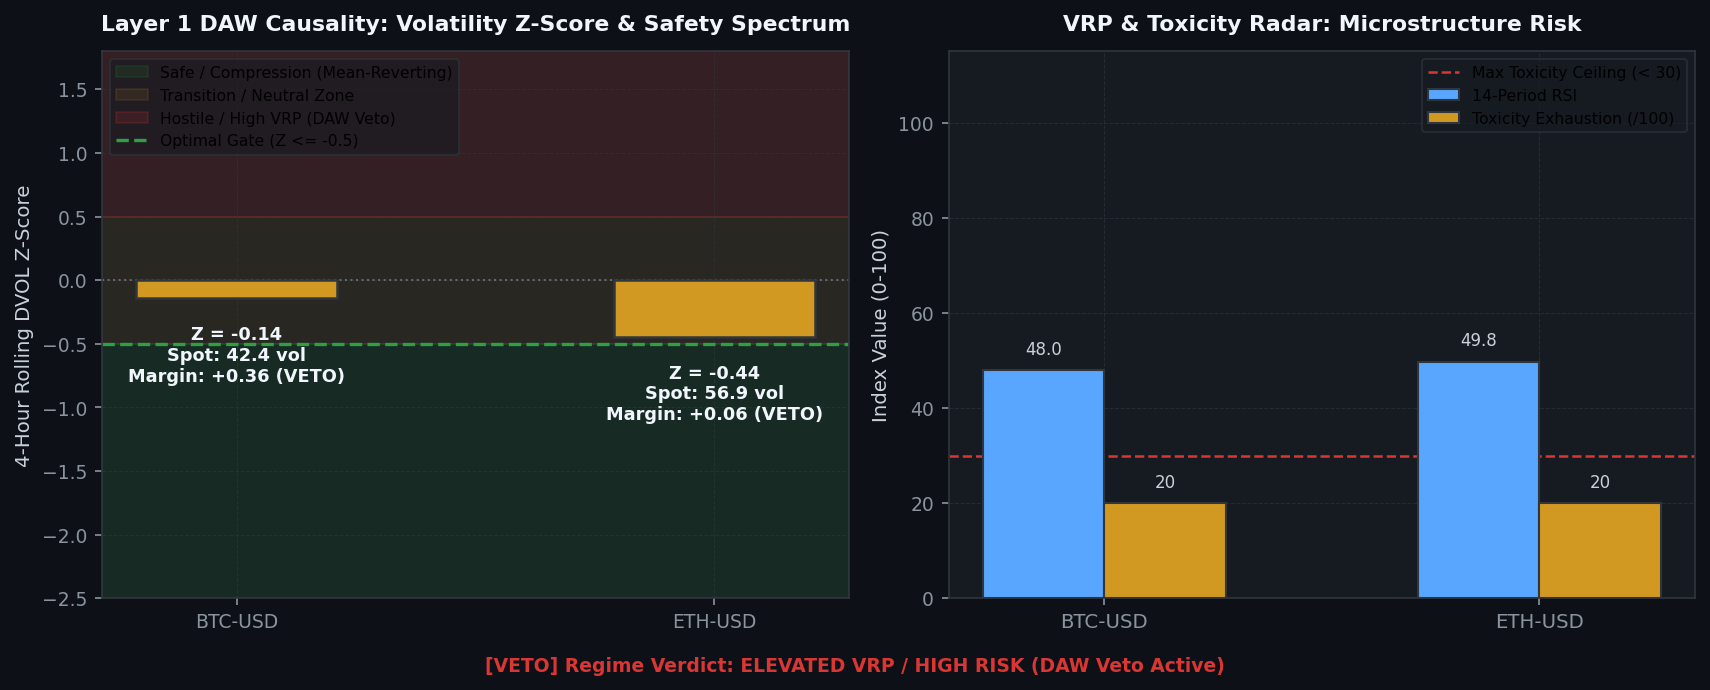
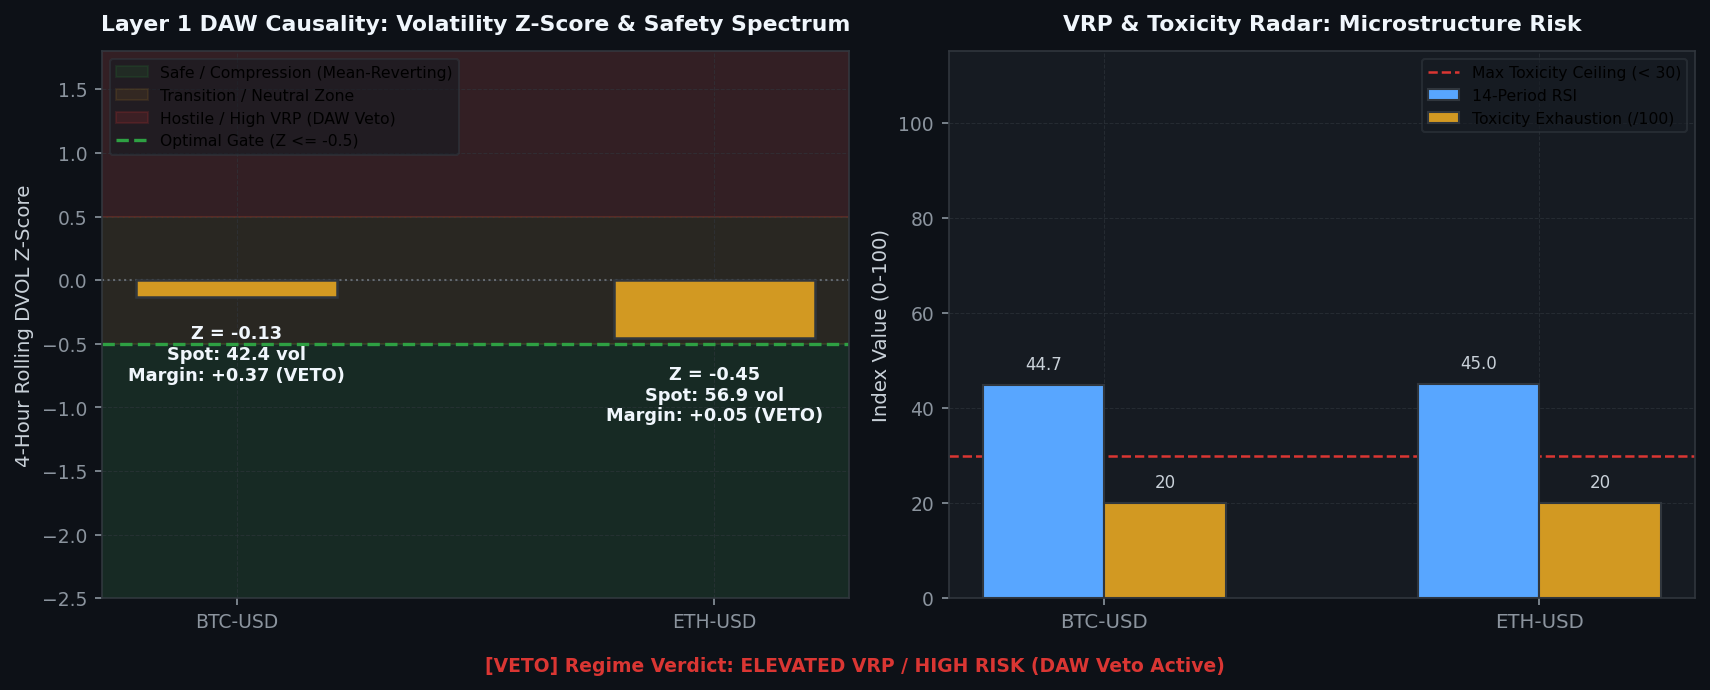
[coinbase] Hourly Status & Visual Intelligence Update: 2026-08-22 12:10:11

diff --git a/coinbase/data/hourly_status_report.md b/coinbase/data/hourly_status_report.md
@@ -3,7 +3,7 @@ layout: default
 ---
 
 # 🛡 Unified Trading System Hourly Status & Visual Intelligence
-> **Report Generated**: `2026-08-22 12:00:10 PM PDT (2026-08-22 19:00:10 UTC)`  
+> **Report Generated**: `2026-08-22 12:09:53 PM PDT (2026-08-22 19:09:53 UTC)`  
 > **System Health**: **🟡 DEGRADED / RESTRICTED** | **Win Rate**: `0.0%` | **Completed Trades**: `0`
 
 
@@ -15,13 +15,13 @@ Real-time Deribit implied volatility (DVOL) proxy tracking against mathematicall
 
 | Symbol | Proxy Oracle | Live Z-Score | Optimal Limit (YSP) | Safety Margin | Live VRP | Optimal VRP (YSP) | DAW Safety Verdict |
 | :--- | :--- | :--- | :--- | :--- | :--- | :--- | :--- |
-| `AVAX-USD` | DVOL_BTC | **-0.14** | **-0.50** | **+0.36** | **-0.36** | 5.0 | 🔴 DAW VETOED |
-| `ETH-USD` | DVOL_ETH | **-0.44** | **-0.50** | **+0.06** | **+14.19** | 5.0 | 🔴 DAW VETOED |
-| `ADA-USD` | DVOL_BTC | **-0.14** | **-0.50** | **+0.36** | **-0.36** | 5.0 | 🔴 DAW VETOED |
-| `DOGE-USD` | DVOL_BTC | **-0.14** | **-0.50** | **+0.36** | **-0.36** | 5.0 | 🔴 DAW VETOED |
-| `BTC-USD` | DVOL_BTC | **-0.14** | **-0.50** | **+0.36** | **-0.36** | 5.0 | 🔴 DAW VETOED |
-| `LINK-USD` | DVOL_BTC | **-0.14** | **-0.50** | **+0.36** | **-0.36** | 5.0 | 🔴 DAW VETOED |
-| `SOL-USD` | DVOL_BTC | **-0.14** | **-0.50** | **+0.36** | **-0.36** | 5.0 | 🔴 DAW VETOED |
+| `AVAX-USD` | DVOL_BTC | **-0.13** | **-0.50** | **+0.37** | **-0.27** | 5.0 | 🔴 DAW VETOED |
+| `ETH-USD` | DVOL_ETH | **-0.45** | **-0.50** | **+0.05** | **+14.27** | 5.0 | 🔴 DAW VETOED |
+| `ADA-USD` | DVOL_BTC | **-0.13** | **-0.50** | **+0.37** | **-0.27** | 5.0 | 🔴 DAW VETOED |
+| `DOGE-USD` | DVOL_BTC | **-0.13** | **-0.50** | **+0.37** | **-0.27** | 5.0 | 🔴 DAW VETOED |
+| `BTC-USD` | DVOL_BTC | **-0.13** | **-0.50** | **+0.37** | **-0.27** | 5.0 | 🔴 DAW VETOED |
+| `LINK-USD` | DVOL_BTC | **-0.13** | **-0.50** | **+0.37** | **-0.27** | 5.0 | 🔴 DAW VETOED |
+| `SOL-USD` | DVOL_BTC | **-0.13** | **-0.50** | **+0.37** | **-0.27** | 5.0 | 🔴 DAW VETOED |
 
 
 
@@ -37,12 +37,12 @@ We hereby certify that the mission-critical algorithmic data assets uploaded by 
 
 | Status | Data Asset | Freshness / State | Details / Timestamp |
 | :---: | :--- | :--- | :--- |
-| ✅ | **Go-List JSON** | Fresh (26.81h old) | 08-21 09:11 |
-| ✅ | **TimesFM Forecasts** | Fresh (3.97h old) | 08-22 08:02 |
-| ✅ | **Holding Times config** | Fresh (26.96h old) | 08-21 09:02 |
-| ✅ | **BTC DVOL Cache** | Fresh (0.01h old) | 08-22 11:59 |
-| ✅ | **ETH DVOL Cache** | Fresh (0.01h old) | 08-22 11:59 |
-| ✅ | **Live Trading Telemetry** | Fresh (0.00h old) | 08-22 12:00 |
+| ✅ | **Go-List JSON** | Fresh (26.98h old) | 08-21 09:11 |
+| ✅ | **TimesFM Forecasts** | Fresh (4.13h old) | 08-22 08:02 |
+| ✅ | **Holding Times config** | Fresh (27.12h old) | 08-21 09:02 |
+| ✅ | **BTC DVOL Cache** | Fresh (0.00h old) | 08-22 12:10 |
+| ✅ | **ETH DVOL Cache** | Fresh (0.01h old) | 08-22 12:09 |
+| ✅ | **Live Trading Telemetry** | Fresh (0.00h old) | 08-22 12:09 |
 
 <br>
 
@@ -55,7 +55,7 @@ Layer-by-layer tick evaluation waterfall and asset-specific performance tracking
 
 | Funnel Filter Layer | Total Rejections | % of Rejections |
 | :--- | :--- | :--- |
-| Tier 1: Macro Volatility Tensor Gate (Omega_macro) | `18,235` | **100.0%** |
+| Tier 1: Macro Volatility Tensor Gate (Omega_macro) | `18,431` | **100.0%** |
 | Tier 2: Unified Transport & Directional Engine | `0` | **0.0%** |
 | Tier 3: Continuous Hawkes-SFGK Pricer (HAS-Pricer) | `0` | **0.0%** |
 | System: Asset Cooldown Active | `0` | **0.0%** |
@@ -93,14 +93,14 @@ Live balance sheet and open maker liquidity positions from Coinbase CDP.
 ## 4. 🤖 Foundation Model MLOps & Pipeline Orchestration
 Weekly Algorithmic Mega Cap selection, Zero-shot multi-step forward return forecasts, and VSTEF parameter grid search status.
 
-- **TimesFM Forecast DB**: 🟢 Updated 4.0h ago (2026-08-22 08:02 AM PDT)
+- **TimesFM Forecast DB**: 🟢 Updated 4.1h ago (2026-08-22 08:02 AM PDT)
 - **Last Weekly VSTEF Optimization**: `2026-08-05 09:22:38 AM PDT`
-- **Next Scheduled VSTEF Run**: `2026-08-23 07:00:00 PM PDT (Monday 02:00 UTC)` (Countdown: **31.0h (1d 6h 59m)**)
+- **Next Scheduled VSTEF Run**: `2026-08-23 07:00:00 PM PDT (Monday 02:00 UTC)` (Countdown: **30.8h (1d 6h 50m)**)
 - **Promoted Parameter Gates**: $Z_{DVOL} \le -0.5$ | Holding Horizon $= 12\text{h}$
 
 ### Algorithmic Mega Cap Selection
 - **Last Run (Confirmation)**: `2026-08-21 09:11:23 AM PDT`
-- **Next Scheduled Run**: `2026-08-23 06:00:00 PM PDT (Monday 01:00 UTC)` (Countdown: **30.0h (1d 5h 59m)**)
+- **Next Scheduled Run**: `2026-08-23 06:00:00 PM PDT (Monday 01:00 UTC)` (Countdown: **29.8h (1d 5h 49m)**)
 - **Selected Mega Cap Universe**: `BTC, BCH, AVAX, ETH, ALGO, ADA, LTC, DOGE, AAVE, LINK, DOT, HBAR`
 
 
@@ -114,19 +114,19 @@ Visualizing the impact of the VSTEF (Volatility-Synchronized Stop-Tightening Exe
 ## 5. 🖥 Multi-Node Infrastructure & Watchdog Matrix
 ```text
 ================================================================================
-   🛡  SFGK FUNNEL GUARDIAN WATCHDOG (HFT ONLY) |  07:00:07 PM
-   CPU:   2.1%  |  MEM:   5.3% (14.6GB / 15.4GB Free)
+   🛡  SFGK FUNNEL GUARDIAN WATCHDOG (HFT ONLY) |  07:09:51 PM
+   CPU:  39.4%  |  MEM:   6.3% (14.4GB / 15.4GB Free)
 ================================================================================
 SERVICE              | PID      | STATUS          | RESTARTS | INFO
 --------------------------------------------------------------------------------
 L3 Consumer          | 4153595  | RUNNING         | -        | Continuous Websocket Feed
-Trader AVAX-USD      | 24352    | COOL-DOWN       | 209      | Next run in 4.6s
-Trader ETH-USD       | 24353    | COOL-DOWN       | 209      | Next run in 4.6s
-Trader ADA-USD       | 24354    | COOL-DOWN       | 209      | Next run in 4.6s
-Trader DOGE-USD      | 24355    | COOL-DOWN       | 209      | Next run in 4.6s
-Trader BTC-USD       | 24356    | COOL-DOWN       | 209      | Next run in 4.6s
-Trader LINK-USD      | 24357    | COOL-DOWN       | 209      | Next run in 4.6s
-Trader SOL-USD       | 24358    | COOL-DOWN       | 209      | Next run in 4.6s
+Trader AVAX-USD      | 33299    | COOL-DOWN       | 237      | Next run in 14.9s
+Trader ETH-USD       | 33300    | COOL-DOWN       | 237      | Next run in 14.9s
+Trader ADA-USD       | 33301    | COOL-DOWN       | 237      | Next run in 14.9s
+Trader DOGE-USD      | 33302    | COOL-DOWN       | 237      | Next run in 14.9s
+Trader BTC-USD       | 33303    | COOL-DOWN       | 237      | Next run in 14.9s
+Trader LINK-USD      | 33304    | COOL-DOWN       | 237      | Next run in 14.9s
+Trader SOL-USD       | 33305    | COOL-DOWN       | 237      | Next run in 14.9s
 ================================================================================
 ```
 

diff --git a/coinbase/data/visual_intelligence.md b/coinbase/data/visual_intelligence.md
@@ -4,7 +4,7 @@ title: Visual Intelligence Gallery
 ---
 
 # 📈 Visual Intelligence Gallery
-> **Generated:** `2026-08-22 12:00:27`
+> **Generated:** `2026-08-22 12:10:11`
 > **[Return to Main Status Report](./hourly_status_report.html)**
 
 This page visualizes the internal states, market profiles, and decision criteria of the active **3-Tier Fused Decision Engine** across all layers.
